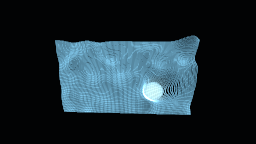
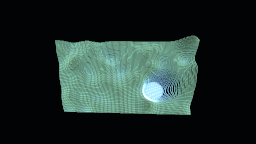
T972,T973: E47 goes live — webcam source switch, thermal depth readout
T972 — THE WEBCAM SWITCH. Owner: 'prepped to use webcam as input to the depth process
so we can use a switch and quickly swap over... good fallbacks'. srcpick1 swaps the
whole SOURCE: index 0 the deterministic synthetic performer (shipped default — a webcam
cannot gate headlessly, and permission is only ever requested when the node activates,
never on load; E27's precedent), index 1 the webcam. Colour follows the source switch,
so the webcam cloud wears its own picture. The fallback matrix is complete and every
cell is worth looking at: synthetic or webcam x understudy or ML — webcam plus NO model
still carves a moving cloud of whoever is sitting there from their own luma, which is
what degrading to something interesting rather than to grey means.

T973 — HEAT. Owner: 'some sort of heatmap gradient... to spice it up'. Built as the
version that is not decoration: the carve kernel writes decoded depth to its own
attribute (depthN, 0 near 1 far) and the paint kernel blends the photographic tint
toward an analytic thermal palette indexed by IT — a second readout of the one axis a
2D projection hides. One published knob (heat, 0..1) on the DepthPoints component;
photographic at 0, thermal at 1, and E47 ships the middle (0.45): the picture with
depth bleeding through. No second texture needed (a kernel has one field input — the
palette is analytic), and §T940's dark room untouched: the colour is in the points, the
floor stays where the gates hold it.
[…]

Changed region(s): [[0.1875, 0.25, 0.7812, 0.8056]]

diff --git a/src/examples/documents/hologram.ts b/src/examples/documents/hologram.ts
@@ -65,6 +65,14 @@ export const hologramDocument = document(
       node("swayx", "lfo", [-2220, 260], { shape: "sine", frequency: 0.29, amplitude: 0.28, offset: 0.5, phase: 0 }, { label: "swayx1" }),
       node("swayy", "lfo", [-2220, 540], { shape: "sine", frequency: 0.19, amplitude: 0.22, offset: 0.5, phase: 0.25 }, { label: "swayy1" }),
       node("src", "add", [-1920, -160], { opacity: 1 }, { label: "src1" }),
+      /* T972 — the SOURCE switch: flip to 1 and the cloud is WHOEVER IS AT THE CAMERA.
+         The shipped default stays the deterministic synthetic performer (a webcam
+         cannot gate headlessly, §T715's family), and permission is only ever requested
+         when the webcam node actually activates — never on load (E27's precedent). With
+         the understudy depth this degrades beautifully: webcam + no model still carves
+         a moving cloud of your face from its own luma. */
+      node("cam", "webcam", [-1920, 140], {}, { label: "cam1" }),
+      node("srcpick", "switch", [-1620, -280], { index: 0 }, { label: "srcpick1" }),
 
       // ---- two depth sources, one switch -------------------------------------------
       /* The understudy: the source's own luma as inverse depth (bright = close), blurred
@@ -89,6 +97,8 @@ export const hologramDocument = document(
         far: 2.6,
         displace: 1.0,
         gain: 0.55,
+        /* T973: mid-blend — the face in its own colour with depth bleeding through. */
+        heat: 0.45,
       }, { label: "holo1" }),
 
       // ---- styling and the stage ----------------------------------------------------
@@ -118,15 +128,17 @@ export const hologramDocument = document(
     [
       edge("e-bed-src", ["bed", "out"], ["src", "in1"]),
       edge("e-orb-src", ["orb", "out"], ["src", "in2"]),
-      edge("e-src-flat", ["src", "out"], ["flat", "input"]),
+      edge("e-src-srcpick", ["src", "out"], ["srcpick", "inputs"], 0),
+      edge("e-cam-srcpick", ["cam", "out"], ["srcpick", "inputs"], 1),
+      edge("e-srcpick-flat", ["srcpick", "out"], ["flat", "input"]),
       edge("e-flat-soften", ["flat", "out"], ["soften", "input"]),
       edge("e-soften-pick", ["soften", "out"], ["pick", "inputs"], 0),
-      edge("e-src-depth", ["src", "out"], ["depth", "input"]),
+      edge("e-srcpick-depth", ["srcpick", "out"], ["depth", "input"]),
       edge("e-depth-pick", ["depth", "out"], ["pick", "inputs"], 1),
       /* The component's two texture ports (boundary-derived): `field` is the PAINT
          kernel's colour, `field_2` the CARVE kernel's depth — verified against the
          flattened plan's texture bindings, not assumed from the names. */
-      edge("e-src-holo", ["src", "out"], ["holo", "field"]),
+      edge("e-srcpick-holo", ["srcpick", "out"], ["holo", "field"]),
       edge("e-pick-holo", ["pick", "out"], ["holo", "field_2"]),
       edge("e-holo-dots", ["holo", "out"], ["dots", "points"]),
       edge("e-shot-out", ["shot", "out"], ["out", "input"]),

diff --git a/src/examples/shaders/depth-points.wgsl.ts b/src/examples/shaders/depth-points.wgsl.ts
@@ -57,6 +57,7 @@ fn process(p: Point, ctx: PointCtx) -> Point {
   if (ctx.index >= cells) {
     q.position = vec3f(0.0, -10000.0, 0.0);
     q.tint = vec4f(0.0);
+    q.depthN = 0.0;
     return q;
   }
 
@@ -67,6 +68,9 @@ fn process(p: Point, ctx: PointCtx) -> Point {
      visualisations (turbo, viridis) read luma; grey maps agree under both. */
   let value = select(dot(sample.rgb, vec3f(0.2126, 0.7152, 0.0722)), sample.r, sample.g + sample.b < 1e-6);
   let metres = decodeDepth(value, near, far, ctx.params.inverseDepth);
+  /* T973: the decoded depth rides its own attribute to the paint kernel — the heatmap
+     is a second READOUT of the axis a 2D projection hides, not a decoration. 0 = near. */
+  q.depthN = clamp((metres - near) / (far - near), 0.0, 1.0);
 
   if (ctx.params.unproject < 0.5) {
     /* HEIGHTFIELD: near pops toward the viewer, scaled by displace. */
@@ -93,6 +97,19 @@ fn process(p: Point, ctx: PointCtx) -> Point {
  */
 export const DEPTH_PAINT_KERNEL = `struct Params {
   gain: f32,
+  heat: f32,
+}
+
+/* T973 — a thermal readout of depth: near burns white-hot through orange, far cools
+   through magenta into deep blue. Analytic, so no second texture is needed (a point
+   kernel has ONE field input, and it is carrying the colour map). */
+fn thermal(t: f32) -> vec3f {
+  let n = clamp(1.0 - t, 0.0, 1.0);
+  return vec3f(
+    smoothstep(0.0, 0.45, n),
+    smoothstep(0.5, 0.9, n) * 0.8,
+    smoothstep(0.0, 0.2, n) * (1.0 - smoothstep(0.25, 0.6, n)) + smoothstep(0.85, 1.0, n),
+  );
 }
 
 fn process(p: Point, ctx: PointCtx) -> Point {
@@ -108,6 +125,9 @@ fn process(p: Point, ctx: PointCtx) -> Point {
   /* fieldAt speaks clip coordinates; the grid generator's layout inverted nothing, so
      the same mapping the carve kernel rode puts the colour texel under its point. */
   let colour = fieldAt(vec3f(u * 2.0 - 1.0, v * 2.0 - 1.0, 0.0));
-  q.tint = vec4f(colour.rgb * ctx.params.gain, 1.0);
+  /* T973: photographic at heat 0, thermal at 1 — and the middle is the point: the
+     source's own colour with depth bleeding through, one knob rather than a mode. */
+  let blended = mix(colour.rgb, thermal(p.depthN), clamp(ctx.params.heat, 0.0, 1.0));
+  q.tint = vec4f(blended * ctx.params.gain, 1.0);
   return q;
 }`;

diff --git a/src/examples/concepts/e47-hologram.test.ts b/src/examples/concepts/e47-hologram.test.ts
@@ -32,11 +32,12 @@ describe("E47 Hologram", () => {
     const paint = dispatches.find((pass) => pass.id.startsWith("holo/paint"));
     expect(carve).toBeDefined();
     expect(paint).toBeDefined();
-    // The depth map arrives through the switch (so the ML path is one index away); the
-    // colour comes straight from the source. Swapping these compiles fine and renders
-    // nonsense — which is exactly why it is pinned (§V655's family).
+    // T972: BOTH kernels read the switched SOURCE family — the colour follows the
+    // source switch (webcam colour lands on the webcam cloud), while the depth passes
+    // through its own second switch (understudy vs ML). Crossing either pair compiles
+    // fine and renders nonsense — which is exactly why they are pinned (§V655's family).
     expect(carve?.textures?.map((texture) => texture.resourceId)).toContain("target:pick:out");
-    expect(paint?.textures?.map((texture) => texture.resourceId)).toContain("target:src:out");
+    expect(paint?.textures?.map((texture) => texture.resourceId)).toContain("target:srcpick:out");
   });
 
   it("draws the cloud with the component's per-point tint mapped", () => {
@@ -56,7 +57,10 @@ describe("E47 Hologram", () => {
     // depth1 is in the plan (the switch keeps BOTH branches compiled), and its result
     // texture is the T959 float format — no 8-bit quantisation between model and cloud.
     expect([...plan.order]).toContain("depth");
-    const external = plan.resources.find((resource) => resource.kind === "externalTexture");
+    // T972 added the webcam's own external texture; the claim is about the DEPTH one.
+    const external = plan.resources.find(
+      (resource) => resource.kind === "externalTexture" && resource.id.includes("depth"),
+    );
     expect(external).toBeDefined();
     expect((external as { format?: string }).format).toBe("r32float");
   });

diff --git a/src/examples/starter-components.ts b/src/examples/starter-components.ts
@@ -320,6 +320,8 @@ const DEPTH_POINTS_SETTINGS: ProjectSettings = {
 const DEPTH_POINT_ATTRIBUTES = JSON.stringify([
   { name: "position", type: "vec3f", semantic: "position", default: [0, 0, 0] },
   { name: "tint", type: "vec4f", semantic: "color", qualifier: "color", default: [1, 1, 1, 1] },
+  /* T973: decoded depth (0 near, 1 far), carved once, read by the paint's heatmap. */
+  { name: "depthN", type: "f32", default: [0] },
 ]);
 
 const depthPointsHost: ProjectDocument = {
@@ -390,6 +392,7 @@ const depthPointsHost: ProjectDocument = {
           attributes: DEPTH_POINT_ATTRIBUTES,
           kernel: DEPTH_PAINT_KERNEL,
           gain: 1,
+          heat: 0,
         },
         label: "paint1",
       },
@@ -835,6 +838,18 @@ export const STARTER_COMPONENT_SPECS: readonly StarterComponentSpec[] = [
         key: "gain",
         definition: { type: "number", label: "Tint Gain", default: 1, min: 0, max: 4, description: "Brightness of the sampled colour." },
         targets: [{ nodeId: "paint", key: "gain" }],
+      },
+      {
+        key: "heat",
+        definition: {
+          type: "number",
+          label: "Heat",
+          default: 0,
+          min: 0,
+          max: 1,
+          description: "T973: blends the photographic tint toward a thermal readout of DEPTH — near burns hot, far cools blue. The middle keeps the picture with depth bleeding through.",
+        },
+        targets: [{ nodeId: "paint", key: "heat" }],
       },
     ],
   },

diff --git a/src/examples/depth-points.gpu.test.ts b/src/examples/depth-points.gpu.test.ts
@@ -47,6 +47,7 @@ const CAPABILITIES = {
 const ATTRIBUTES = JSON.stringify([
   { name: "position", type: "vec3f", semantic: "position", default: [0, 0, 0] },
   { name: "tint", type: "vec4f", semantic: "color", qualifier: "color", default: [1, 1, 1, 1] },
+  { name: "depthN", type: "f32", default: [0] },
 ]);
 
 interface CarveParams {
@@ -110,7 +111,7 @@ async function runCloud(
         type: "pointKernel",
         definitionVersion: 1,
         position: { x: 0, y: 0 },
-        parameters: { capacity: CAPACITY, seed: 7, attributes: ATTRIBUTES, kernel: DEPTH_PAINT_KERNEL, gain: 1 },
+        parameters: { capacity: CAPACITY, seed: 7, attributes: ATTRIBUTES, kernel: DEPTH_PAINT_KERNEL, gain: 1, heat: 0 },
         label: "paint1",
       },
       draw: { id: "draw", type: "renderPoints", definitionVersion: 1, position: { x: 0, y: 0 }, parameters: {}, label: "draw1" },

diff --git a/examples/E47-Hologram.md b/examples/E47-Hologram.md
@@ -8,7 +8,17 @@ This is the first example to INSTANCE a library component. `holo1` is
 `component:depthPoints@1` from the starter set — the example feeds it two textures and
 styles the pointset that comes back; the chain inside (grid → carve → paint) is the
 component's own business. Its published page is turned from here: `fov` 55, a shallow
-`near`/`far` stage, `displace` 1, `resolution` 160.
+`near`/`far` stage, `displace` 1, `resolution` 160, `heat` 0.45 — the T973 knob that
+blends the photographic tint toward a thermal readout of depth (near burns hot, far
+cools blue), so the axis the 2D projection hides is readable at a glance.
+
+## Two switches: the source, and the depth
+
+`srcpick1` picks WHAT the cloud is made of: index 0 is the deterministic synthetic
+performer; index 1 is `cam1`, the webcam — flip it and the cloud is whoever is at the
+camera, in their own colour. Permission is only requested when the webcam activates,
+never on load. With the understudy depth this degrades beautifully: webcam plus no
+model still carves a moving cloud of your face from its own luma.
 
 ## Two depth sources, one switch
 
@@ -25,10 +35,12 @@ with a switch:
   the cloud is a visibly flat sheet in the orbit, never a failure.
 
 ```
-bed1(noise) ─┬─► src1(add) ─┬──────────────────────────► holo1 (colour)
-orb1(circle)─┘              ├─► flat1(hsv) ─► soften1(blur) ─► pick1(switch)
-                            └─► depth1(depth) ── index 1 ──────┘   │
-                                             pick1 ─► holo1 (depth map)
+bed1(noise) ─┬─► src1(add) ─► srcpick1(switch) ◄─ cam1(webcam)   (index 1)
+orb1(circle)─┘                     │
+srcpick1 ─┬──────────────────────────────────────────► holo1 (colour)
+          ├─► flat1(hsv) ─► soften1(blur) ─► pick1(switch)
+          └─► depth1(depth) ── index 1 ────────┘   │
+                                  pick1 ─► holo1 (depth map)
 holo1(component:depthPoints@1) ─► dots1(geometry) ─► shot1(render) ─► out1
 orbit1(lfo) ┄drives┄► eye1.eye.x
 ```
@@ -41,6 +53,8 @@ orbit1(lfo) ┄drives┄► eye1.eye.x
 | `flat1` | `hsv` | saturation 0: the source's luma, the understudy's raw material |
 | `soften1` | `blur` | 14 px: the carve reads a surface, not film grain |
 | `depth1` | `depth` | the ML path — stale-tolerant, mid-grey without the model (§T715) |
+| `cam1` | `webcam` | the live source (T972) — your face as the cloud, permission only on activation |
+| `srcpick1` | `switch` | WHICH picture the cloud is made of: synthetic performer or webcam |
 | `pick1` | `switch` | WHICH depth map the component reads — the source-agnosticism, live |
 | `holo1` | `component:depthPoints@1` | the DepthPoints instance (T958): unprojection, declared encoding, retexture |
 | `dots1` | `geometry` | soft additive points, per-point tint mapped from the component's paint |

diff --git a/examples/README.md b/examples/README.md
@@ -53,7 +53,7 @@ happened:
 | [E38 Sigil](./E38-Sigil.md) | the first example where a PICTURE decides which points belong to it, rather than what colour they are: `fieldAt` samples a drawn emblem at each grid cell and that number scales the spring that gathers the mote, so a mark assembles out of a drifting population and comes apart into it again. Membership is a property of the CELL — sampling where the mote IS instead takes 6528 members to 8302 while the look baseline does not move a digit (T727, §V681, §V684) |
 | [E45 Pulse](./E45-Pulse.md) | A VJ SET, not a picture: two shots trade the frame on musical structure. A `pointProximity` constellation whose web tightens on the high band, and a once-per-bar scanline of `pointRay` casts drawing an unseen terrain as an ember ridge — crossfaded by a value held four bars (`valueStep` on `audioPattern` bar), so the cut lands on a phrase boundary, never a timer. E43's splice kernel reused for the global tear; every band drive enveloped before it touches anything visible (T819, §T548, §V788) |
 | [E46 Lantern](./E46-Lantern.md) | ONE DISTANCE FIELD READ FOUR WAYS: a single `scene(p)` SDF gives the light, the soft shadows (a ray marched toward each lantern, its closest approach `min(K·h/t)` *is* the penumbra), the lit faces (shaded by the field's own gradient) and the occlusion that stops a lantern's core drawing through the obstacle it drifts behind — so glow and shadow are the same field read two ways, never a post-process. The lanterns orbit on CIRCLES for constant linear speed and are bent aside by a summed smoothstep repulsion: across nine hundred frames the largest step any lantern takes is under 0.006 world units (T871, T861, §V471) |
-| [E47 Hologram](./E47-Hologram.md) | THE DEPTH → POINT CLOUD COMPONENT, SHOWCASED (T956/T958): the DepthPoints library component — the first example to INSTANCE one — unprojects a depth map through a ray per pixel, so the source hangs in space as a volume of soft additive motes under a slow orbital camera. Two depth sources on one switch prove the boundary: the shipped default is the source's own blurred luma (deterministic, bright-is-close), index 1 is the monocular ML `depth` node, stale-tolerant per §T715 |
+| [E47 Hologram](./E47-Hologram.md) | THE DEPTH → POINT CLOUD COMPONENT, SHOWCASED (T956/T958): the DepthPoints library component — the first example to INSTANCE one — unprojects a depth map through a ray per pixel, so the source hangs in space as a volume of soft additive motes under a slow orbital camera. Two depth sources on one switch prove the boundary: the shipped default is the source's own blurred luma (deterministic, bright-is-close), index 1 is the monocular ML `depth` node, stale-tolerant per §T715. A second switch swaps the whole source for the WEBCAM (T972) — your face as a flyable point cloud — and a published `heat` knob (T973) blends the photographic tint toward a thermal readout of depth |
 
 ## Running them
 
